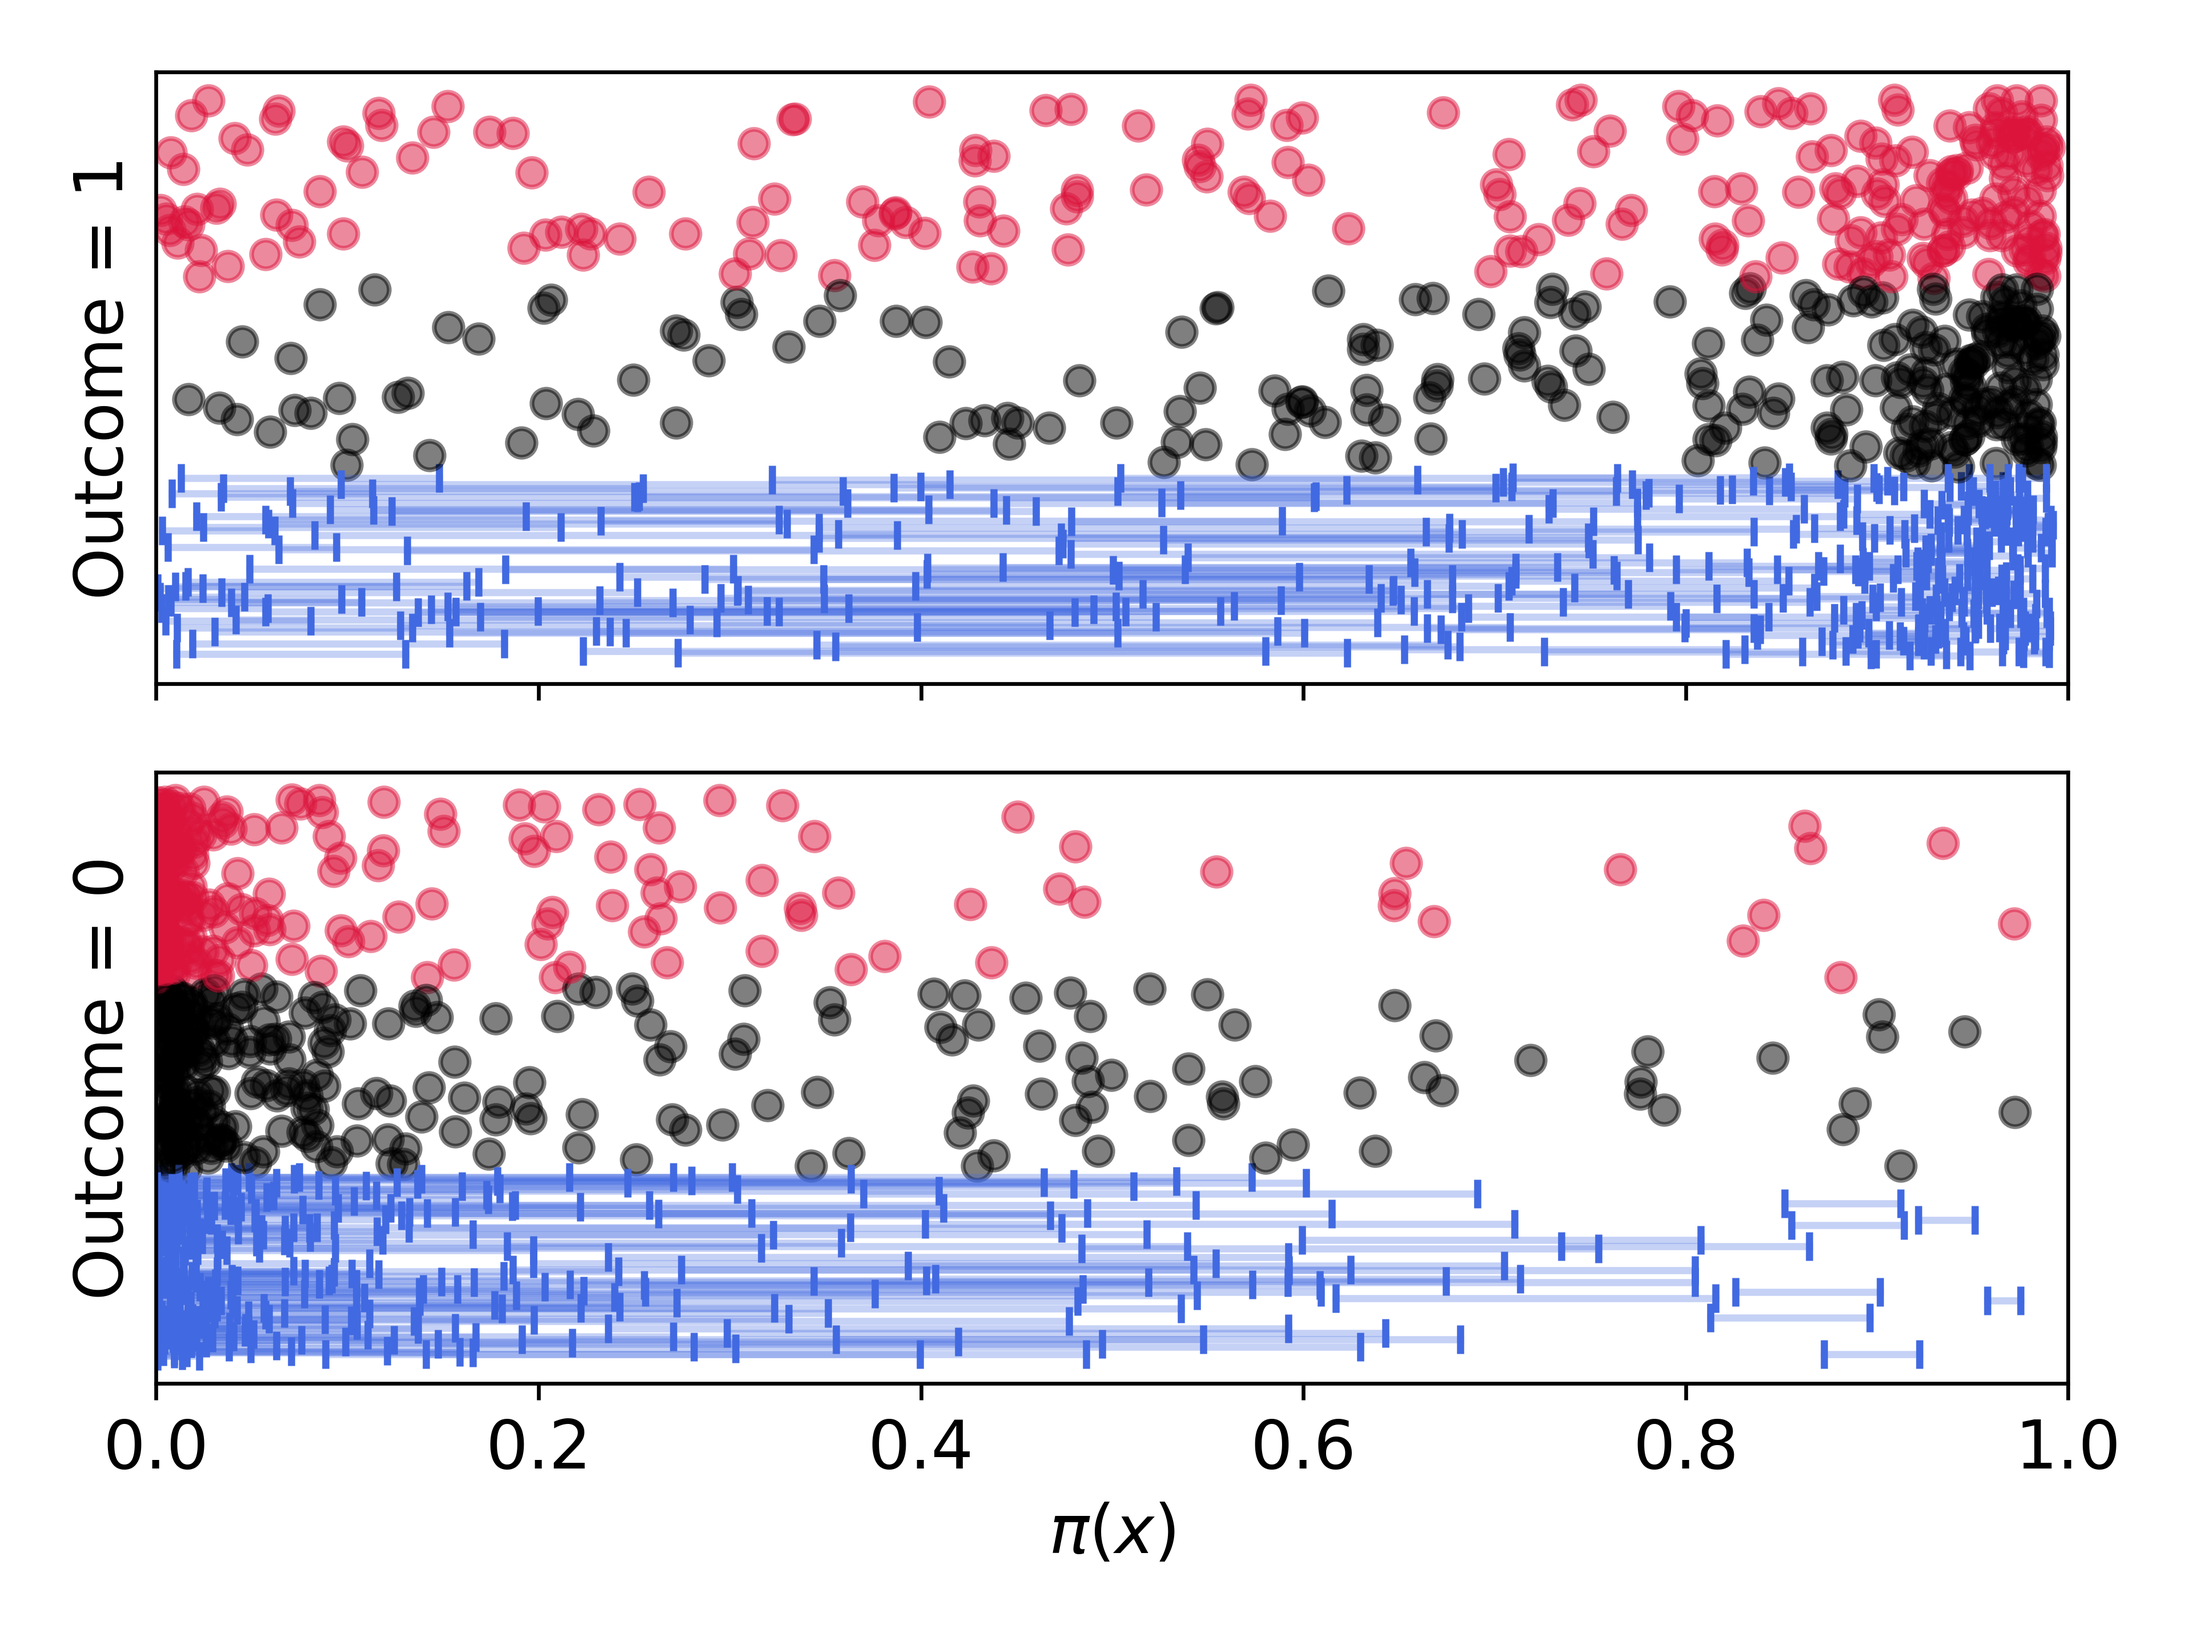
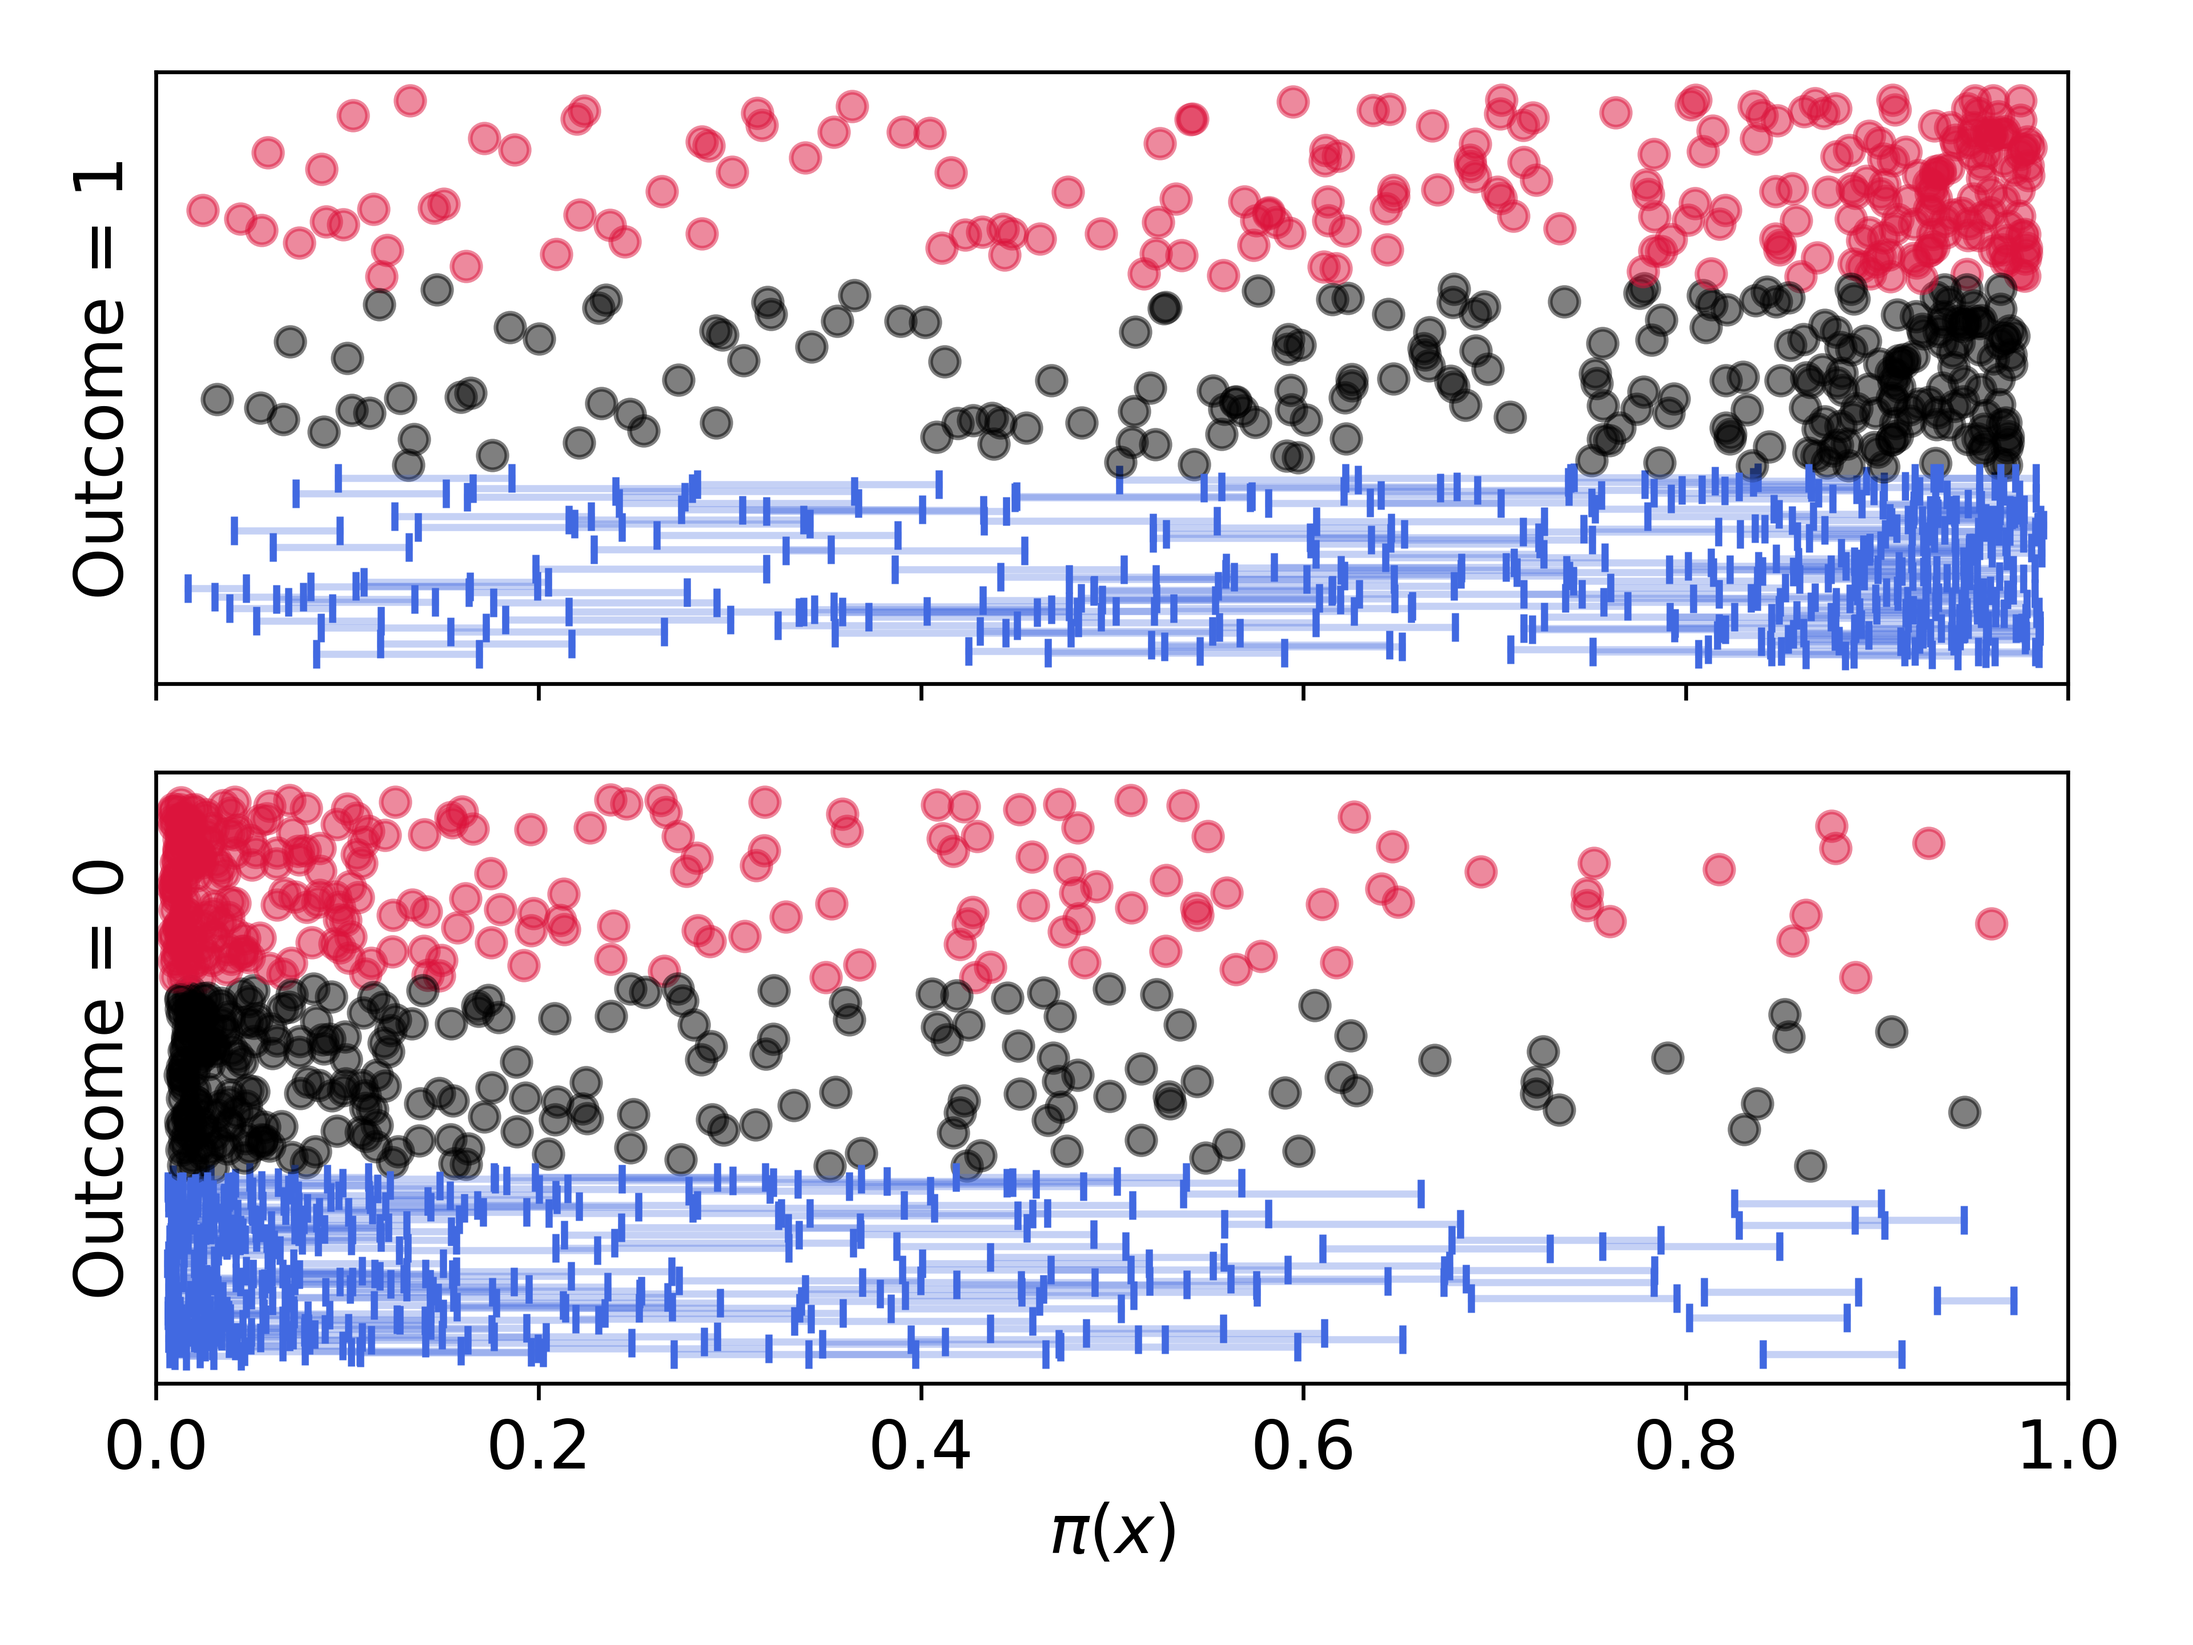
21AUG.01

diff --git a/LRF.py b/LRF.py
@@ -13,8 +13,11 @@ def midpoints(data):
             
     return n_data
 
-def generate_confusion_matrix(results,predictions,throw = False):
-
+def generate_confusion_matrix(results,predictions,throw = False,func = None):
+    
+    if func is not None:
+        predictions = [func(p) for p in predictions]
+        
     a = 0
     b = 0
     c = 0
@@ -40,98 +43,21 @@ def generate_confusion_matrix(results,predictions,throw = False):
                 d += 1
 
     if throw:
+        
+        if a.__class__.__name__ != 'Interval':
+            a = pba.I(a)
+            c = pba.I(c)
+        if b.__class__.__name__ != 'Interval':
+            b = pba.I(b)     
+            d = pba.I(d)
+                   
         e = a.width()
         f = b.width()
         
         return a.left,b.left,c.left,d.left,e,f
     else:
         return a,b,c,d    
-    
-
-def ROC(model = None, predictions = None, data = None, results = None, uq = False, drop = True):
-
-    s = []
-    fpr = []
-    
-    if predictions is None:
-        predictions = model.predict_proba(data)[:,1]
-    
-    for p in tqdm(np.linspace(0,1,1000),desc='ROC calcualtion'):
-        a = 0
-        b = 0
-        c = 0
-        d = 0
-
-        for prob, result in zip(predictions,results):
-            if uq and not drop:
-                if (prob[0] >= p) and (prob[1] >= p):
-                    x = 1
-                elif (prob[0] < p) and (prob[1] < p):
-                    x = 0
-                else:
-                    x = 0.5
-                    
-                if x == 0.5:
-                    if result:
-                        a += pba.I(0,1)
-                        b += pba.I(0,1)
-                    else:
-                        c += pba.I(0,1)
-                        d += pba.I(0,1)
-                elif x:
-                    if result:
-                        # true positive
-                        a += 1
-                    else:
-                        # false positive
-                        b+= 1
-                else: 
-                    if result:
-                        # false negative
-                        c += 1
-                    else:
-                        # true negative
-                        d += 1
-                
-                        
-            else:
-                if uq and drop:
-                    if (prob[0] >= p) and (prob[1] >= p):
-                        x = 1
-                    elif (prob[0] < p) and (prob[1] < p):
-                        x = 0
-                    else:
-                        continue                 
-                else:
-                    x = prob >= p
-                    
-                if x:
-                    if result:
-                        # true positive
-                        a += 1
-                    else:
-                        # false positive
-                        b+= 1
-                else: 
-                    if result:
-                        # false negative
-                        c += 1
-                    else:
-                        # true negative
-                        d += 1
-                    
-        if a == 0:
-            s.append(0)
-        else:
-            s.append(1/(1+(c/a)))
-        
-        if b == 0:
-            fpr.append(0)
-        else:
-            fpr.append(1/(1+(d/b)))
-        
-    return s, fpr, predictions
-   
+      
 def ROC(model, data, results, func = (lambda x: x)):
     
     s = []
@@ -159,69 +85,35 @@ def auc(s,fpr):
         
     return np.trapz(s,fpr)
 
-def UQ_ROC_alt(models, data, results):
+def incert_ROC(models, data, results):
    
     s = []
     fpr = []
     
     Sigma = []
     Tau = []
+
+    total_positive = sum(results)
+    total_negative = len(results) - total_positive
     
     probabilities = models.predict_proba(data)[:,1]
-
-    for p in tqdm(np.linspace(0,1,1000),desc = 'UQ ROC'):
-        a = 0
-        b = 0
-        c = 0
-        d = 0
+    
+    for p in tqdm(np.linspace(0,1,1000),desc = 'ROC'):
         
-        sigma = 0
-        tau = 0
-        nu = 0
+        predictions = [prob >= p for prob in probabilities]
         
-        for prob, result in zip(probabilities,results):
-
-            if pba.always(prob >= p):
-                if result:
-                    # true positive
-                    a += 1
-                else:
-                    # false positive
-                    b+= 1
-            elif pba.always(prob < p):
-                if result:
-                    # false negative
-                    c += 1
-                else:
-                    # true negative
-                    d += 1
-            else:
-                nu += 1
-
-                if result:
-                    sigma += 1
-                else:
-                    tau += 1
-              
-        if a == 0:
-            s.append(0)
-        else:
-            s.append(1/(1+(c/a)))
+        a,b,c,d,e,f = generate_confusion_matrix(predictions,results, throw = True)
         
-        if b == 0:
-            fpr.append(0)
-        else:
-            fpr.append(1/(1+(d/b)))
-            
-        Sigma.append(sigma/sum(results))
-        Tau.append(tau/(len(results) - sum(results)))
-            
+        s.append(a/(total_positive-e))
+        fpr.append(b/(total_negative-f))
+        
+        Sigma.append(e/total_positive)
+        Tau.append(f/total_negative)
         
     return s, fpr, Sigma, Tau
 
 def hosmer_lemeshow_test(model, data ,results,g = 10):
     
-
     probs = pd.DataFrame(model.predict_proba(data),index = data.index)
     probs.sort_values(by = 1,inplace = True)
  
@@ -244,6 +136,7 @@ def hosmer_lemeshow_test(model, data ,results,g = 10):
         }
         
     buckets = pd.DataFrame(buckets).transpose()
+    buckets.to_csv('b.csv')
     hl = sum(((buckets['observed_cases']-buckets['expected_cases'])**2)/(buckets['expected_cases'])) + sum(((buckets['observed_n_cases']-buckets['expected_n_cases'])**2)/(buckets['expected_n_cases']))
 
     pval = 1-chi2.cdf(hl,g-2)
@@ -251,13 +144,13 @@ def hosmer_lemeshow_test(model, data ,results,g = 10):
     return hl, pval
   
 def UQ_hosmer_lemeshow_test(models, data, results, g=10):
-    
+
     probabs_0 = []
     probabs_1 = []
     probabs_mp = []
     
     for d in tqdm(data.index, desc = 'UQ HL Test'):
-        p = [(m.predict_proba(data.loc[d].to_numpy().reshape(1, -1))[:,0],m.predict_proba(data.loc[d].to_numpy().reshape(1, -1))[:,1]) for k,m in models.items()]
+        p = [(m.predict_proba(data.loc[d].to_numpy().reshape(1, -1))[:,0],m.predict_proba(data.loc[d].to_numpy().reshape(1, -1))[:,1]) for m in models]
         
         p = list(zip(*p))
         
@@ -286,32 +179,31 @@ def UQ_hosmer_lemeshow_test(models, data, results, g=10):
             'observed_n_cases': pba.I(len(idx) - sum(results.loc[idx])),
             'expected_n_cases': sum(probs.loc[idx,0])
         }
-        
+    
+    pd.DataFrame().from_dict(buckets, orient='index').to_csv('a.csv')
     hl = 0
     for i in range(g):
         
         cl = ((buckets[i]['observed_cases'].left - buckets[i]['expected_cases'].left)**2)/buckets[i]['expected_cases'].left
-        cr = ((buckets[i]['observed_cases'].Right - buckets[i]['expected_cases'].Right)**2)/buckets[i]['expected_cases'].Right
+        cr = ((buckets[i]['observed_cases'].right - buckets[i]['expected_cases'].right)**2)/buckets[i]['expected_cases'].right
         
         nl = ((buckets[i]['observed_n_cases'].left - buckets[i]['expected_n_cases'].left)**2)/buckets[i]['expected_n_cases'].left
-        nr = ((buckets[i]['observed_n_cases'].Right - buckets[i]['expected_n_cases'].Right)**2)/buckets[i]['expected_n_cases'].Right
+        nr = ((buckets[i]['observed_n_cases'].right - buckets[i]['expected_n_cases'].right)**2)/buckets[i]['expected_n_cases'].right
             
-        if pba.always(buckets[i]['observed_cases'] - buckets[i]['expected_cases'] != 0):
-            hl += pba.I(cl+nr,cr+nl)
+        if (buckets[i]['observed_cases'] - buckets[i]['expected_cases']).straddles_zero(endpoints = True):
+            hl += pba.I(0, pba.I(cl + nr, cr + nl))
         else:
-            hl += pba.I(0,pba.I(cl+nr,cr+nl))
-            
-            
+            hl += pba.I(cl + nr, cr + nl)
 
-    pval = pba.I(1-chi2.cdf(hl.left,g-2),1-chi2.cdf(hl.Right,g-2))
+    pval = pba.I(1-chi2.cdf(hl.left,g-2),1-chi2.cdf(hl.right,g-2))
     
     return hl, pval
 
 __all__ = [
     'generate_confusion_matrix',
     'ROC',
+    'incert_ROC',
     'auc',
-    'UQ_ROC_alt',
     'hosmer_lemeshow_test',
     'UQ_hosmer_lemeshow_test'
     

diff --git a/ex1_UC.py b/ex1_UC.py
@@ -69,8 +69,9 @@ def generate_results(data):
 
 ### Generate Data
 # set seed for reproducability
-np.random.seed(1)
-random.seed(2)
+s = 1234
+np.random.seed(s)
+random.seed(s)
 
 # Params
 some = 50 # training datapoints
@@ -120,7 +121,7 @@ plt.xlabel('$x$')
 plt.ylabel('$\pi(x)$')
 plt.scatter(nuq_data,nuq_results,color='grey',zorder=10)
 plt.plot(lX,lY,color='k',zorder=10,lw=2,label = 'Truth')
-plt.plot(lX,lYn,color='#DC143C',zorder=10,lw=2,label = 'No UQ')
+# plt.plot(lX,lYn,color='#DC143C',zorder=10,lw=2,label = 'No UQ')
 
 for i in uq_data_index:
 
@@ -130,10 +131,10 @@ for i in uq_data_index:
 plt.plot(lX,[i.left for i in lYu],color='#4169E1',lw=2)
 plt.plot(lX,[i.right for i in lYu],color='#4169E1',lw=2,label = 'Uncertainty Bounds')
 
-# plt.savefig('../paper/figs/ex1_UC.png',dpi = 600)
-# plt.savefig('figs/ex1_UC.png',dpi = 600)
+plt.savefig('../paper/figs/ex1_UC.png',dpi = 600)
+plt.savefig('figs/ex1_UC.png',dpi = 600)
 
-# plt.clf()
+plt.clf()
 
 ### Get confusion matrix
 # Classify test data
@@ -181,7 +182,7 @@ with open('runinfo/ex1_UC_cm.out','w') as f:
         ttti = dddi/(b+d)
     except:
         ttti = None
-    print(aaai)
+
     print('TP=[%i,%i]\tFP=[%i,%i]\nFN=[%i,%i]\tTN=[%i,%i]' %(*aaai,*bbbi,*ccci,*dddi),file = f)
 
     # Calculate sensitivity and specificity
@@ -208,15 +209,15 @@ with open('runinfo/ex1_UC_cm.out','w') as f:
    
 
 ### Descriminatory Performance Plots
-s,fpr,predictions = ROC(model = base, data = test_data, results = test_results)
-nuq_s,nuq_fpr,nuq_predictions = ROC(model = nuq, data = test_data, results = test_results)
-s_t, fpr_t, Sigma, Tau, Nu = UQ_ROC_alt(ilr, test_data, test_results)
+s,fpr,probabilities = ROC(model = base, data = test_data, results = test_results)
+nuq_s,nuq_fpr,nuq_probabilities = ROC(model = nuq, data = test_data, results = test_results)
+s_t, fpr_t, Sigma, Tau = incert_ROC(ilr, test_data, test_results)
 
-s_i, fpr_i,ilr_predictions = UQ_ROC(ilr, test_data, test_results)
+s_i, fpr_i,ilr_probabilities = ROC(ilr, test_data, test_results)
 
 densfig,axdens = plt.subplots(nrows = 2, sharex= True)
 
-for i,(p,u,nuqp,r) in enumerate(zip(predictions,ilr_predictions,nuq_predictions,test_results.to_list())):
+for i,(p,u,nuqp,r) in enumerate(zip(probabilities,ilr_probabilities,nuq_probabilities,test_results.to_list())):
     yd = np.random.uniform(-0.1,0.1)
     if r:
         axdens[0].scatter(p,yd,color = 'k',marker = 'o',alpha = 0.5)
@@ -285,15 +286,15 @@ plt.savefig('../paper/figs/ex1_UC_ST.png',dpi = 600)
 plt.clf()
 
 
-# ### Hosmer-Lemeshow
-# hl_b, pval_b = hosmer_lemeshow_test(base,train_data,train_results,g = 10)
+### Hosmer-Lemeshow
+hl_b, pval_b = hosmer_lemeshow_test(base,train_data,train_results,g = 10)
 
-# hl_nuq, pval_nuq = hosmer_lemeshow_test(nuq,train_data,train_results,g = 10)
-   
-# hl_uq, pval_uq = UQ_hosmer_lemeshow_test(uq_models,train_data,train_results,g = 10)
+hl_nuq, pval_nuq = hosmer_lemeshow_test(nuq,train_data,train_results,g = 10)
+#
+hl_uq, pval_uq = UQ_hosmer_lemeshow_test(ilr,train_data,train_results,g = 10)
 
-# with open('runinfo/ex1_UC_HL.out','w') as f:
-#     print('base\nhl = %.3f, p = %.3f' %(hl_b,pval_b),file = f)
-#     print('no UQ\nhl = %.3f, p = %.3f' %(hl_nuq,pval_nuq),file = f) 
+with open('runinfo/ex1_UC_HL.out','w') as f:
+    print('base\nhl = %.3f, p = %.3f' %(hl_b,pval_b),file = f)
+    print('no UQ\nhl = %.3f, p = %.3f' %(hl_nuq,pval_nuq),file = f) 
 
-#     print('UQ\nhl = [%.3f,%.3f], p = [%.3f,%.3f]' %(*hl_uq,*pval_uq),file = f) 
+    print('UQ\nhl = [%.3f,%.3f], p = [%.3f,%.3f]' %(*hl_uq,*pval_uq),file = f) 
